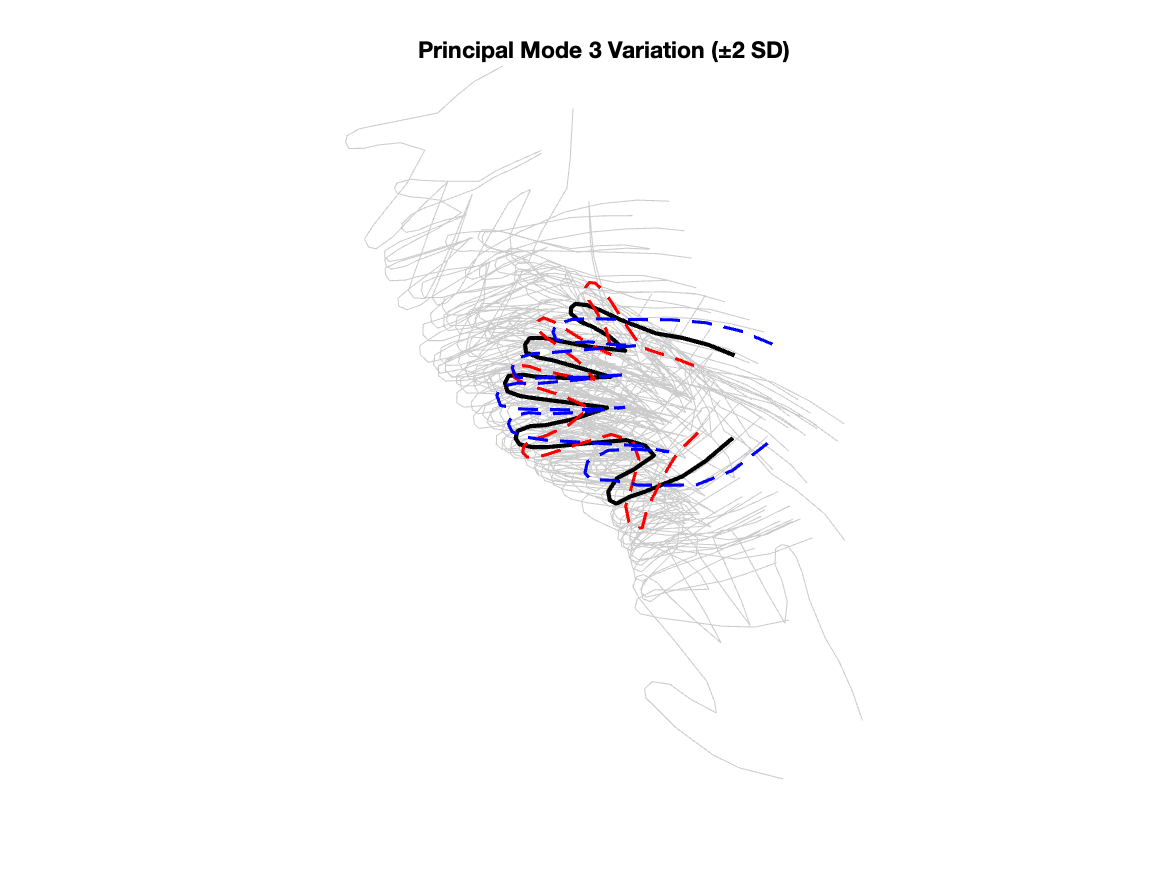
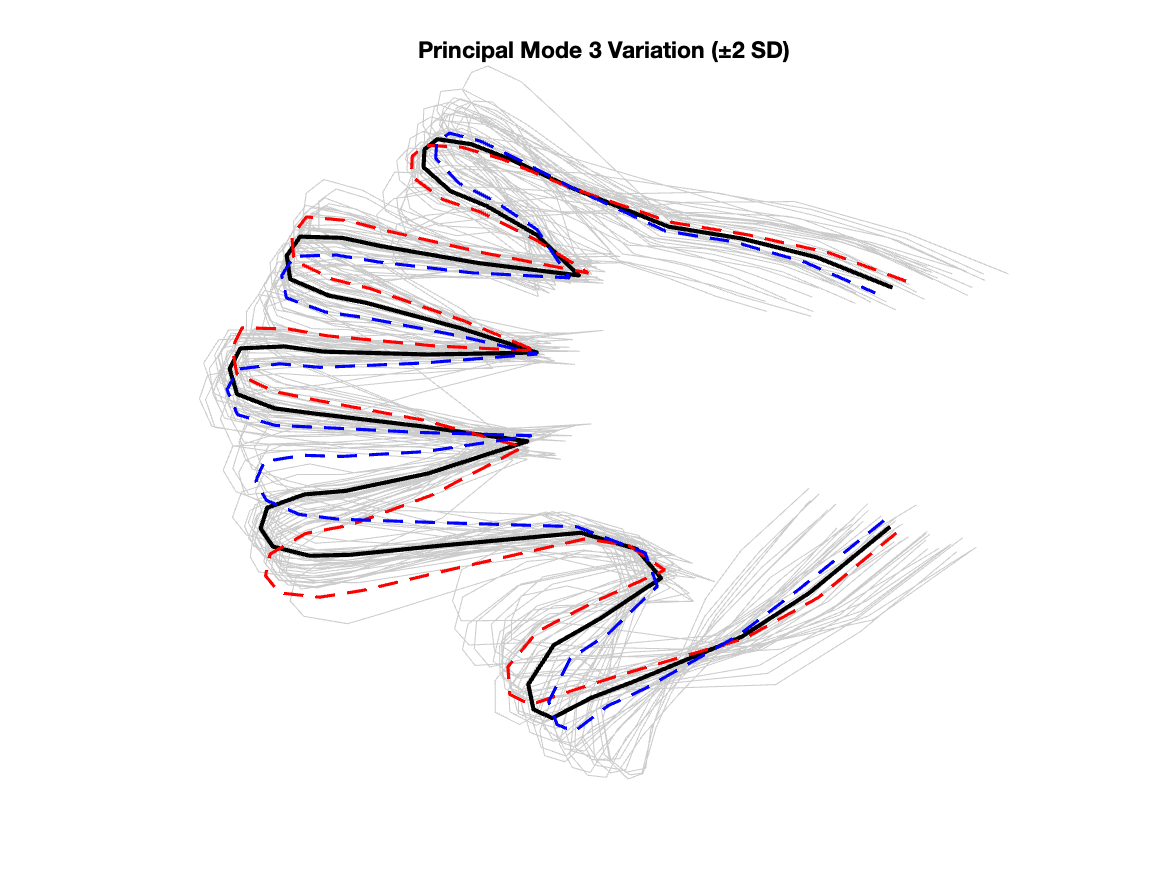
q3 done

Changed region(s): [[0.1542, 0.0926, 0.8329, 0.8949]]

diff --git a/src/q3/main_a.m b/src/q3/main_a.m
@@ -2,33 +2,58 @@ close all;
 clear;
 clc;
 
-data = load('../../data/hands2D.mat');
-shapes = data.shapes;
+data = load('../../data/robustShapeMean2D.mat');
+shapes = data.pointsets;
 
-[num_coords, num_points, num_shapes] = size(shapes);
+[num_shapes, num_points, num_coords] = size(shapes);
 X = cell(1, num_shapes);
 for i = 1:num_shapes
-    X{i} = shapes(:, :, i)'; 
+    X{i} = squeeze(shapes(i, :, :)); 
 end
 
-%% (b) Run Code22 and visualize results
-[max_shape, aligned_shapes_code22] = code22_mean(X, 10);
+c = cell(1, num_shapes);
+figure;
+hold on;
+for i = 1:num_shapes
+    c{i} = rand(1, 3);
+    plot(X{i}(:, 1), X{i}(:, 2), 'Color', c{i});
+end
+title('Initial hand shapes');
+axis equal; axis off;
+saveas(gcf, 'Results/initial_pointsets.png');
+
+for i = 1:num_shapes
+    X{i} = X{i} - mean(X{i}, 1);         
+    X{i} = X{i} / norm(X{i}, 'fro');
+end
 
 figure;
 hold on;
 for i = 1:num_shapes
-    plot(aligned_shapes_code22{i}(:,1), aligned_shapes_code22{i}(:,2),'.', 'Color', [0.5 0.5 0.5]);
+    plot(X{i}(:, 1), X{i}(:, 2), 'Color', c{i});
+end
+title('Normalized Initial hand shapes');
+axis equal; axis off;
+saveas(gcf, 'Results/norm_initial_pointsets.png');
+
+%% (b) Run Squared and visualize results
+[max_shape, aligned_shapes] = mean_shape_align_a(X, 10);
+
+figure;
+hold on;
+for i = 1:num_shapes
+    plot(aligned_shapes{i}(:,1), aligned_shapes{i}(:,2), 'Color', [0.5 0.5 0.5]);
 end
 plot(max_shape(:,1), max_shape(:,2), 'r-', 'LineWidth', 2);
-title('Code22: Aligned Shapes and Mean Shape');
+title('Squared: Aligned Shapes and Mean Shape');
 axis equal; axis off;
-saveas(gcf, 'Results/code2/mean_shape.png');
+saveas(gcf, 'Results/Part a/mean_shape.png');
 
 %% (c) principal modes of variation
 D = num_points * 2;
 data_matrix = zeros(num_shapes, D);
 for i = 1:num_shapes
-    flat_shape = reshape(aligned_shapes_code22{i}', [1, D]);  % Flattening (2x56 → 112x1 → 1x112)
+    flat_shape = reshape(aligned_shapes{i}', [1, D]);  % Flattening (2x56 → 112x1 → 1x112)
     data_matrix(i, :) = flat_shape;
 end
 
@@ -47,9 +72,9 @@ V = V(:, idx);  % Reorder eigenvectors
 % (c) Plot top 3 eigenvalues
 figure;
 bar(evals(1:3));
-title('Top 3 Principal Mode Variances (Code22)');
+title('Top 3 Principal Mode Variances (Squared)');
 xlabel('Principal Mode'); ylabel('Variance');
-saveas(gcf, 'Results/code2/principal_modes.png');
+saveas(gcf, 'Results/Part a/principal_modes.png');
 
 %% (d) Visualize shape mean ± k * sqrt(variance) along top principal modes
 k = 2;  % You can try k = 3 as well
@@ -62,14 +87,14 @@ for mode = 1:3
     figure;
     hold on;
     for i = 1:num_shapes
-        plot(aligned_shapes_code22{i}(:,1), aligned_shapes_code22{i}(:,2), 'Color', [0.8 0.8 0.8]);
+        plot(aligned_shapes{i}(:,1), aligned_shapes{i}(:,2), 'Color', [0.8 0.8 0.8]);
     end
     plot(max_shape(:,1), max_shape(:,2), 'k-', 'LineWidth', 2);
     plot(shape_plus(:,1), shape_plus(:,2), 'r--', 'LineWidth', 1.5);
     plot(shape_minus(:,1), shape_minus(:,2), 'b--', 'LineWidth', 1.5);
     title(['Principal Mode ' num2str(mode) ' Variation (±' num2str(k) ' SD)']);
     axis equal; axis off;
-    saveas(gcf, ['Results/code2/mode_', num2str(mode),'.png']);
+    saveas(gcf, ['Results/Part a/mode_', num2str(mode),'.png']);
 end
 
 k_vals = [2, 3];
@@ -91,5 +116,5 @@ for mode = 1:3
         axis equal; axis off;
         title([titles{mode} ' Mode ±' num2str(k) '\sigma']);
     end
-saveas(gcf, 'Results/code2/comparison_modes.png');
+saveas(gcf, 'Results/Part a/comparison_modes.png');
 end

diff --git a/src/q3/main_b.m b/src/q3/main_b.m
@@ -2,33 +2,58 @@ close all;
 clear;
 clc;
 
-data = load('../../data/hands2D.mat');
-shapes = data.shapes;
+data = load('../../data/robustShapeMean2D.mat');
+shapes = data.pointsets;
 
-[num_coords, num_points, num_shapes] = size(shapes);
+[num_shapes, num_points, num_coords] = size(shapes);
 X = cell(1, num_shapes);
 for i = 1:num_shapes
-    X{i} = shapes(:, :, i)'; 
+    X{i} = squeeze(shapes(i, :, :)); 
 end
 
-%% (b) Run Code22 and visualize results
-[max_shape, aligned_shapes_code22] = code22_mean(X, 10);
+c = cell(1, num_shapes);
+figure;
+hold on;
+for i = 1:num_shapes
+    c{i} = rand(1, 3);
+    plot(X{i}(:, 1), X{i}(:, 2), 'Color', c{i});
+end
+title('Initial hand shapes');
+axis equal; axis off;
+saveas(gcf, 'Results/initial_pointsets.png');
+
+for i = 1:num_shapes
+    X{i} = X{i} - mean(X{i}, 1);         
+    X{i} = X{i} / norm(X{i}, 'fro');
+end
 
 figure;
 hold on;
 for i = 1:num_shapes
-    plot(aligned_shapes_code22{i}(:,1), aligned_shapes_code22{i}(:,2),'.', 'Color', [0.5 0.5 0.5]);
+    plot(X{i}(:, 1), X{i}(:, 2), 'Color', c{i});
+end
+title('Normalized Initial hand shapes');
+axis equal; axis off;
+saveas(gcf, 'Results/norm_initial_pointsets.png');
+
+%% (b) Run Squared and visualize results
+[max_shape, aligned_shapes] = mean_shape_align_b(X, 10);
+
+figure;
+hold on;
+for i = 1:num_shapes
+    plot(aligned_shapes{i}(:,1), aligned_shapes{i}(:,2), 'Color', [0.5 0.5 0.5]);
 end
 plot(max_shape(:,1), max_shape(:,2), 'r-', 'LineWidth', 2);
-title('Code22: Aligned Shapes and Mean Shape');
+title('Squared: Aligned Shapes and Mean Shape');
 axis equal; axis off;
-saveas(gcf, 'Results/code2/mean_shape.png');
+saveas(gcf, 'Results/Part b/mean_shape.png');
 
 %% (c) principal modes of variation
 D = num_points * 2;
 data_matrix = zeros(num_shapes, D);
 for i = 1:num_shapes
-    flat_shape = reshape(aligned_shapes_code22{i}', [1, D]);  % Flattening (2x56 → 112x1 → 1x112)
+    flat_shape = reshape(aligned_shapes{i}', [1, D]);  % Flattening (2x56 → 112x1 → 1x112)
     data_matrix(i, :) = flat_shape;
 end
 
@@ -47,9 +72,9 @@ V = V(:, idx);  % Reorder eigenvectors
 % (c) Plot top 3 eigenvalues
 figure;
 bar(evals(1:3));
-title('Top 3 Principal Mode Variances (Code22)');
+title('Top 3 Principal Mode Variances (Squared)');
 xlabel('Principal Mode'); ylabel('Variance');
-saveas(gcf, 'Results/code2/principal_modes.png');
+saveas(gcf, 'Results/Part b/principal_modes.png');
 
 %% (d) Visualize shape mean ± k * sqrt(variance) along top principal modes
 k = 2;  % You can try k = 3 as well
@@ -62,14 +87,14 @@ for mode = 1:3
     figure;
     hold on;
     for i = 1:num_shapes
-        plot(aligned_shapes_code22{i}(:,1), aligned_shapes_code22{i}(:,2), 'Color', [0.8 0.8 0.8]);
+        plot(aligned_shapes{i}(:,1), aligned_shapes{i}(:,2), 'Color', [0.8 0.8 0.8]);
     end
     plot(max_shape(:,1), max_shape(:,2), 'k-', 'LineWidth', 2);
     plot(shape_plus(:,1), shape_plus(:,2), 'r--', 'LineWidth', 1.5);
     plot(shape_minus(:,1), shape_minus(:,2), 'b--', 'LineWidth', 1.5);
     title(['Principal Mode ' num2str(mode) ' Variation (±' num2str(k) ' SD)']);
     axis equal; axis off;
-    saveas(gcf, ['Results/code2/mode_', num2str(mode),'.png']);
+    saveas(gcf, ['Results/Part b/mode_', num2str(mode),'.png']);
 end
 
 k_vals = [2, 3];
@@ -91,5 +116,5 @@ for mode = 1:3
         axis equal; axis off;
         title([titles{mode} ' Mode ±' num2str(k) '\sigma']);
     end
-saveas(gcf, 'Results/code2/comparison_modes.png');
+saveas(gcf, 'Results/Part b/comparison_modes.png');
 end

diff --git a/src/q3/compute_geometric_median.m b/src/q3/compute_geometric_median.m
@@ -1,0 +1,58 @@
+function X_median = compute_geometric_median(aligned_shapes, tol, max_iter)
+% Computes the geometric median of M aligned Nx2 shapes using Weiszfeld's algorithm
+%
+% Inputs:
+%   aligned_shapes: a cell array of M shapes, each of size Nx2
+%   tol: tolerance for convergence (e.g., 1e-5)
+%   max_iter: maximum number of iterations (e.g., 100)
+%
+% Output:
+%   X_median: the estimated mean shape (Nx2) that minimizes sum of distances
+
+    if nargin < 2
+        tol = 1e-5;
+    end
+    if nargin < 3
+        max_iter = 100;
+    end
+
+    M = length(aligned_shapes);
+    N = size(aligned_shapes{1}, 1);
+
+    % Flatten all shapes to 2N vectors
+    shapes_matrix = zeros(M, 2 * N);
+    for i = 1:M
+        shapes_matrix(i, :) = reshape(aligned_shapes{i}, [], 1);
+    end
+
+    % Initialize mean shape as the arithmetic mean
+    x = mean(shapes_matrix, 1)';
+
+    for iter = 1:max_iter
+        numerator = zeros(2 * N, 1);
+        denominator = 0;
+        for i = 1:M
+            q_i = shapes_matrix(i, :)';
+            dist = norm(x - q_i);
+            if dist < 1e-10
+                % If very close, skip to avoid instability
+                continue;
+            end
+            weight = 1 / dist;
+            numerator = numerator + weight * q_i;
+            denominator = denominator + weight;
+        end
+
+        x_new = numerator / denominator;
+
+        % Check convergence
+        if norm(x_new - x) < tol
+            break;
+        end
+
+        x = x_new;
+    end
+
+    % Reshape back to Nx2
+    X_median = reshape(x, N, 2);
+end

diff --git a/src/q3/mean_shape_align_a.m b/src/q3/mean_shape_align_a.m
@@ -1,0 +1,34 @@
+function [mean_shape, aligned_shapes] = mean_shape_align_a(X, max_iter)
+    num_shapes = length(X);
+    aligned_shapes = X;
+    mean_shape = X{1};
+    prev_mean = mean_shape;
+
+    for iter = 1:max_iter
+        for i = 1:num_shapes
+            aligned_shapes{i} = mean_rot(mean_shape, X{i});
+        end
+
+        mean_shape = zeros(size(X{1}));
+        for i = 1:num_shapes
+            mean_shape = mean_shape + aligned_shapes{i};
+        end
+        mean_shape = mean_shape / num_shapes;
+
+        % Normalize mean shape
+        mean_shape_norm = mean_shape - mean(mean_shape, 1);
+        mean_shape_norm = mean_shape_norm / norm(mean_shape, 'fro');
+
+        if sqrt(sum((prev_mean-mean_shape_norm).^2)) <= 1e-3
+            fprintf("Converged at iteration %d\n", iter);
+            break;
+        end
+
+        prev_mean =  mean_shape_norm;
+    end
+    
+    for i = 1:num_shapes
+        aligned_shapes{i} = mean_rot(mean_shape, X{i});
+    end
+
+end

diff --git a/src/q3/mean_shape_align_b.m b/src/q3/mean_shape_align_b.m
@@ -1,0 +1,30 @@
+function [mean_shape, aligned_shapes] = mean_shape_align_b(X, max_iter)
+    num_shapes = length(X);
+    aligned_shapes = X;
+    mean_shape = X{1};
+    prev_mean = mean_shape;
+
+    for iter = 1:max_iter
+        for i = 1:num_shapes
+            aligned_shapes{i} = mean_rot(mean_shape, X{i});
+        end
+
+        mean_shape = compute_geometric_median(aligned_shapes, 1e-6, 50);
+
+        % Normalize mean shape
+        mean_shape_norm = mean_shape - mean(mean_shape, 1);
+        mean_shape_norm = mean_shape_norm / norm(mean_shape, 'fro');
+
+        if sqrt(sum((prev_mean-mean_shape_norm).^2)) <= 1e-3
+            fprintf("Converged at iteration %d\n", iter);
+            break;
+        end
+
+        prev_mean =  mean_shape_norm;
+    end
+    
+    for i = 1:num_shapes
+        aligned_shapes{i} = mean_rot(mean_shape, X{i});
+    end
+
+end

diff --git a/src/q1/code22_mean.m b/src/q1/code22_mean.m
@@ -2,6 +2,7 @@ function [mean_shape, aligned_shapes] = code22_mean(X, max_iter)
     num_shapes = length(X);
     aligned_shapes = X;
     mean_shape = X{1};
+    prev_mean = mean_shape;
 
     for iter = 1:max_iter
         for i = 1:num_shapes
@@ -12,5 +13,12 @@ function [mean_shape, aligned_shapes] = code22_mean(X, max_iter)
             mean_shape = mean_shape + aligned_shapes{i};
         end
         mean_shape = mean_shape / num_shapes;
+
+        if sqrt(sum((prev_mean-mean_shape).^2)) <= 1e-3
+            fprintf("Converged at iteration %d\n", iter);
+            break;
+        end
+
+        prev_mean =  mean_shape;
     end
 end

diff --git a/src/q3/mean_rot.m b/src/q3/mean_rot.m
@@ -1,4 +1,4 @@
-function Y_aligned = code2_mean_all(X_ref, Y)
+function Y_aligned = mean_rot(X_ref, Y)
     N = size(X_ref, 1);
     
     % Columns
@@ -16,6 +16,6 @@ function Y_aligned = code2_mean_all(X_ref, Y)
     tx = params(3); ty = params(4);
     
     % Transform
-    R = [a, b1; -b1, a]; % this includes scale
+    R = [a, b1; -b1, a]; 
     Y_aligned = (Y * R) + [tx, ty];
 end
